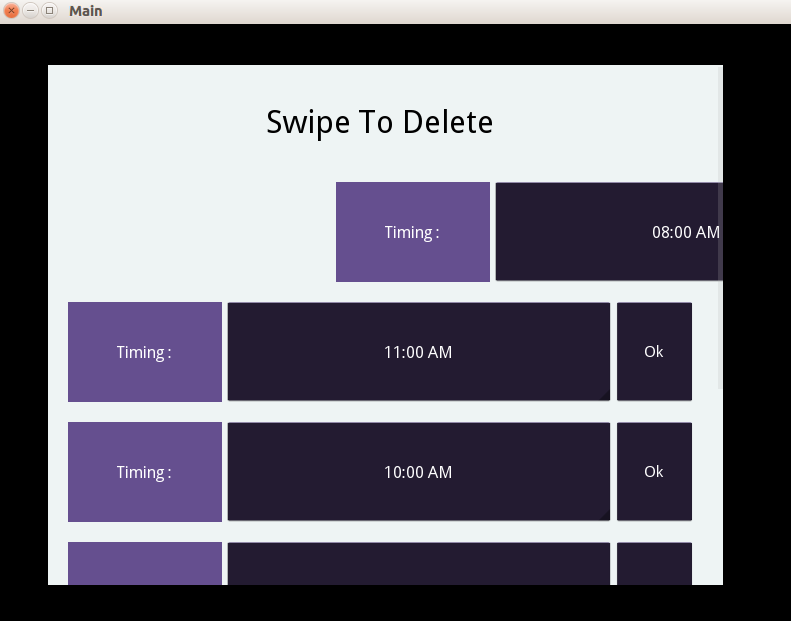
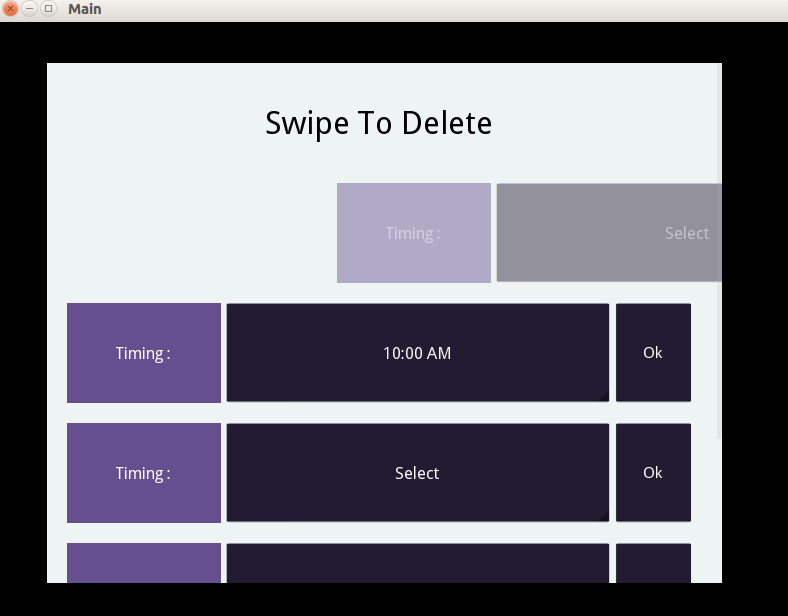
fixing pep8, sovling #1 issue and squashing

diff --git a/__init__.py b/__init__.py
@@ -1,23 +1,73 @@
 from kivy.clock import Clock
-from kivy.properties import OptionProperty, ObjectProperty, NumericProperty,\
-    ReferenceListProperty, BooleanProperty, ListProperty, AliasProperty
+from kivy.properties import OptionProperty, ObjectProperty, NumericProperty, \
+    ReferenceListProperty, BooleanProperty, ListProperty, AliasProperty, \
+    StringProperty
 from kivy.config import Config
 from kivy.metrics import sp
 from functools import partial
-
+from kivy.animation import Animation
 
 _scroll_timeout = _scroll_distance = 0
 if Config:
     _scroll_timeout = Config.getint('widgets', 'scroll_timeout')
     _scroll_distance = Config.getint('widgets', 'scroll_distance')
 
+
 class SwipeBehavior(object):
     '''Swipe behavior. When combined with a widget, swiping in the rectangle
     defined by :attr:`swipe_rectangle` will swipe the widget.
     In this case to left or to right.
-    The main.py file demonstrates the use.
+    The example.py file demonstrates the use.
     '''
-    
+
+    move_to = ListProperty()
+    '''To move widget.
+    :attr:`remove_from_left` is a :class:`~kivy.properties.ListProperty`,
+    defaults to [None,None].
+    '''
+
+    remove_from_left = BooleanProperty(True)
+    '''Choice to remove the widget from the left or not.
+    :attr:`remove_from_left` is a :class:`~kivy.properties.BooleanProperty`,
+    defaults to True.
+    '''
+
+    remove_from_right = BooleanProperty(True)
+    '''Choice to remove the widget from the right or not.
+    :attr:`remove_from_right` is a :class:`~kivy.properties.BooleanProperty`,
+    defaults to True.
+    '''
+
+    opacity_reduction_rate = NumericProperty(.005)
+    '''Change the rate at which opacity reduces.
+    :attr:`opacity_reduction_rate` is a :class:
+    `~kivy.properties.NumericProperty`, defaults to (.005).
+    '''
+
+    animation_type = StringProperty('linear')
+    '''For setting animation type.
+    :attr:`animation_type` is a :class:`~kivy.properties.StringProperty`,
+    defaults to linear.
+    '''
+
+    animation_duration = NumericProperty(.5)
+    '''For setting animation duration.
+    :attr:`animation_duration` is a :class:`~kivy.properties.NumericProperty`,
+    defaults to (.5).
+    '''
+
+    right_percentage = NumericProperty(35)
+    '''When to delete from right side.
+    :attr:`right_percentage` is a :class:`~kivy.properties.NumericProperty`,
+    defaults to 35.
+    '''
+
+    left_percentage = NumericProperty(35)
+    '''When to delete from left side.
+    :attr:`left_percentage` is a :class:`~kivy.properties.NumericProperty`,
+    defaults to 35.
+    '''
+
     swipe_distance = NumericProperty(_scroll_distance)
     '''Distance to move before swiping the :class:`swipeBehavior`, in pixels.
     As soon as the distance has been traveled, the :class:`swipeBehavior` will
@@ -69,7 +119,7 @@ class SwipeBehavior(object):
     '''
 
     swipe_rectangle = ReferenceListProperty(swipe_rect_x, swipe_rect_y,
-                                           swipe_rect_width, swipe_rect_height)
+                                        swipe_rect_width, swipe_rect_height)
     '''Position and size of the axis aligned bounding rectangle where swiping
     is allowed.
 
@@ -85,9 +135,21 @@ class SwipeBehavior(object):
     def _get_uid(self, prefix='sv'):
         return '{0}.{1}'.format(prefix, self.uid)
 
+    def animate_back(self):
+        '''Take the widget back to its original position by using animation.
+        '''
+        if not self.move_to==[]:
+            anim1 = Animation(x=self.move_to[0], y=self.move_to[1],
+                              t=self.animation_type,
+                              duration=self.animation_duration)
+            anim1.start(self)
+        else:
+            pass
+
     def on_touch_down(self, touch):
         xx, yy, w, h = self.swipe_rectangle
         x, y = touch.pos
+
         if not self.collide_point(x, y):
             touch.ud[self._get_uid('svavoid')] = True
             return super(SwipeBehavior, self).on_touch_down(touch)
@@ -167,3 +229,43 @@ class SwipeBehavior(object):
         self._swipe_touch = None
         super(SwipeBehavior, self).on_touch_down(touch)
         return
+
+    def check_for_left(self):
+        '''
+        Delete the widget when on_touch_up method is called and the widget is
+        left_percentage from the left.
+        '''
+        if hasattr(self.parent, 'width'):
+            if (((self.x+self.width) - self.parent.x) / self.width
+                            ) * 100 <= self.left_percentage:
+                if self.remove_from_left:
+                    self.parent.remove_widget(self)
+            else:
+                self.get_widget_back()
+                self.animate_back()
+        else:
+            pass
+
+    def check_for_right(self):
+        '''
+        Delete the widget when on_touch_up method is called and the widget is
+        right_percentage from the right.
+        '''
+        if hasattr(self.parent, 'width'):
+            if ((self.parent.width - self.x) / self.width
+                        ) * 100 <= self.right_percentage:
+                if self.remove_from_right:
+                    self.parent.remove_widget(self)
+            else:
+                self.get_widget_back()
+                self.animate_back()
+        else:
+            pass
+    '''
+    get the opacity of widget back
+    '''
+    def reduce_opacity(self):
+        self.opacity -= self.opacity_reduction_rate
+
+    def get_widget_back(self):
+        self.opacity = 1.0

diff --git a/example.py b/example.py
@@ -1,15 +1,11 @@
-''' Import Statements '''
 from kivy.app import App
 from kivy.uix.boxlayout import BoxLayout
 from kivy.uix.scrollview import ScrollView
 from kivy.properties import ObjectProperty,ListProperty,NumericProperty,BooleanProperty
-from SwipeToDeleteBehavior import SwipeBehavior
-from kivy.animation import Animation
+from kivy.garden.swipetodelete import SwipeBehavior
 from kivy.lang import Builder
-from time import sleep
 
 kvdemo='''
-
 <DragWidget>:
     size_hint: (None,None)
     size: (625,100)
@@ -65,103 +61,60 @@ kvdemo='''
         size_hint_y: None
         id: layout_container
         
-        Label: 
+        Button: 
             markup: True
-            text: "[color=000000]Swipe To Delete[/color]"
+            text: "[color=000000]Swipe To Delete (Click Me!)[/color]"
             font_size: 32
             size_hint: (None,None)
             size: (625,80)
+            on_release: root.add_new()
                 
         DragWidget:
+            left_percentage: 10
+            right_percentage: 10
         DragWidget:
+            left_percentage: 70
+            right_percentage: 70
         DragWidget:
+            animation_type: 'in_bounce'
+            animation_duration: 2
         DragWidget:
-        DragWidget: 
+            remove_from_right: False
+            remove_from_left: False
         DragWidget:
 '''
 
 class DragWidget(SwipeBehavior,BoxLayout):
     
-    widget_original_cord = ListProperty([0,0])
-    ''' To remember the original coordinates of the widget.
-    :attr:`widget_original_cord` is a :class:`~kivy.properties.ListProperty`,
-defaults to [0,0].
-    '''
-    bool = BooleanProperty(True)
-    '''To prevent manipulation of original coordinates of the widget.
-    :attr:`bool` is a :class:`~kivy.properties.BooleanProperty`,
-defaults to True.
-    '''
-    
-    def AnimateBack(self):
-        '''Take the widget back to its original position by using animation.
-        '''
-        anim1 = Animation(x=self.widget_original_cord[0],y=self.widget_original_cord[1], t='linear',duration = .5)
-        anim1.start(self)
-    
-    def RemoveWidget(self,instance):
-        '''Remove the widget
-        '''
-        instance.parent.remove_widget(instance)
-        
-    def CheckForLeft(self):
-        '''Delete the widget when on_touch_up method is called and the widget is 25% or less left inside, from the left.
-        '''
-        if (((self.x+self.width) - self.parent.x )/self.width)*100 <= 35:
-            self.RemoveWidget(self)
-        else:
-            self.AnimateBack()
-    
-    def CheckForRight(self):
-        '''Delete the widget when on_touch_up method is called and the widget is 25% or less left inside, from the right.
-        '''
-        if ((self.parent.width - self.x)/self.width)*100 <= 35:
-            self.RemoveWidget(self)
-        else:
-            self.AnimateBack()
-            
-    
     def on_touch_down(self, touch):
         if self.collide_point(touch.x, touch.y):
-            try:
-                if self.bool:
-                    self.widget_original_cord = [self.x,self.y]
-                    self.bool = False
-                return super(DragWidget, self).on_touch_down(touch)
-            except:
-                pass
+            self.move_to = self.x,self.y
+            return super(DragWidget, self).on_touch_down(touch)
     
     def on_touch_move(self, touch):
         if self.collide_point(touch.x, touch.y):
-            try:
-                if self.bool:
-                    self.widget_original_cord = [self.x,self.y]
-                    self.bool = False
-                return super(DragWidget, self).on_touch_move(touch)
-            except:
-                pass
-
+            self.reduce_opacity()
+            return super(DragWidget, self).on_touch_move(touch)
+    
     def on_touch_up(self, touch):
         if self.collide_point(touch.x, touch.y):
-            try:
-                self.CheckForRight()
-                self.CheckForLeft()
-                return super(DragWidget, self).on_touch_up(touch)
-            except:
-                pass
-        
-
+            self.check_for_left()
+            self.check_for_right()
+            return super(DragWidget, self).on_touch_up(touch)
+    
 class SwipeToDeleteContainer(ScrollView):
     layout_container = ObjectProperty(None)
     '''The container which contains dragable widgets.
     :attr:`layout_container` is a :class:`~kivy.properties.ObjectProperty`,
 defaults to None.
-    
     '''
     
     def __init__(self,**kwargs):
         super(SwipeToDeleteContainer,self).__init__(**kwargs)
         self.layout_container.bind(minimum_height=self.layout_container.setter('height'))
+    
+    def add_new(self):
+        self.ids.layout_container.add_widget(DragWidget())
 
 class MainApp(App):
     def build(self):

diff --git a/README.md b/README.md
@@ -3,13 +3,61 @@ Swipe To Delete
 
 ![ScreenShot](https://raw.github.com/kiok46/swipetodelete/master/screenshot.png)
 
-Swipe left or right behaviour included.
+##Usage Summary
 
-Applications
-=============
+This project is an implementation of Swipe Behavior. 
+SwipeToDelete widget is built on Swipe Behaviour as a test case.
+This widget can be used to create dynamic layouts where users can delete UI widgets by swiping them left or right. 
+Swipe behavior, when combined with a widget allows swiping within a rectangular area.
 
-Just swipe to cancel the booking.
-Now the booking could be of a cab service, or a movie ticket or anything :).
+Latest commit adds some new features.
+
+##How It Works
+
+
+Import in your python file or kivy file
+```
+from kivy.garden.swipetodelete import SwipeBehavior
+class DragWidget(SwipeBehavior,BoxLayout):
+```
+Use in your kivy file or python file
+```
+<DragWidget>:
+  swipe_rectangle: self.x, self.y , self.width, self.height
+  swipe_timeout: 1000000
+  swipe_distance: 1
+```
+
+See example.py file for more.
+
+##SwipeBehaviour Properties
+
+- *swipe_distance* - Distance to move before swiping. NumericProperty(20)
+- *swipe_timeout* - Timeout allowed to trigger swipe_distance in milliseconds. NumericProperty(55)
+- *swipe_rect_x* - X position of the axis aligned bounding rectangle where swiping
+    is allowed. NumericProperty(0)
+- *swipe_rect_y* - Y position of the axis aligned bounding rectangle where swiping
+    is allowed. NumericProperty(0)
+- *swipe_rect_width* - Width of the axis aligned bounding rectangle where swiping is allowed. NumericProperty(100)
+- *swipe_rect_height* - Height of the axis aligned bounding rectangle where swiping is allowed. NumericProperty(100)
+- *swipe_rectangle* - Position and size of the axis aligned bounding rectangle where swiping
+    is allowed. ReferenceListProperty(swipe_rect_x, swipe_rect_y, swipe_rect_width, swipe_rect_height) 
+- *remove_from_left* - User has the choice to remove the widget from the left or not.
+- *remove_from_right* - User has the choice to remove the widget from the right or not.
+- *animation_type* - For different animation while returning back.
+- *animation_duration* - Duration of animation
+- *right_percentage* - Decide the limit to delete when user swipes to the right side.
+- *left_percentage* - Decide the limit to delete when user swipes to left side.
+- *move_to* - To move widgets
+- *opacity_reduction_rate* - Change the way at which opacity reduces.
+
+
+##Want to contribute or need to see some improvements?
+I would love that, please create an issue or send a PR.
+
+
+
+
 
 
 
